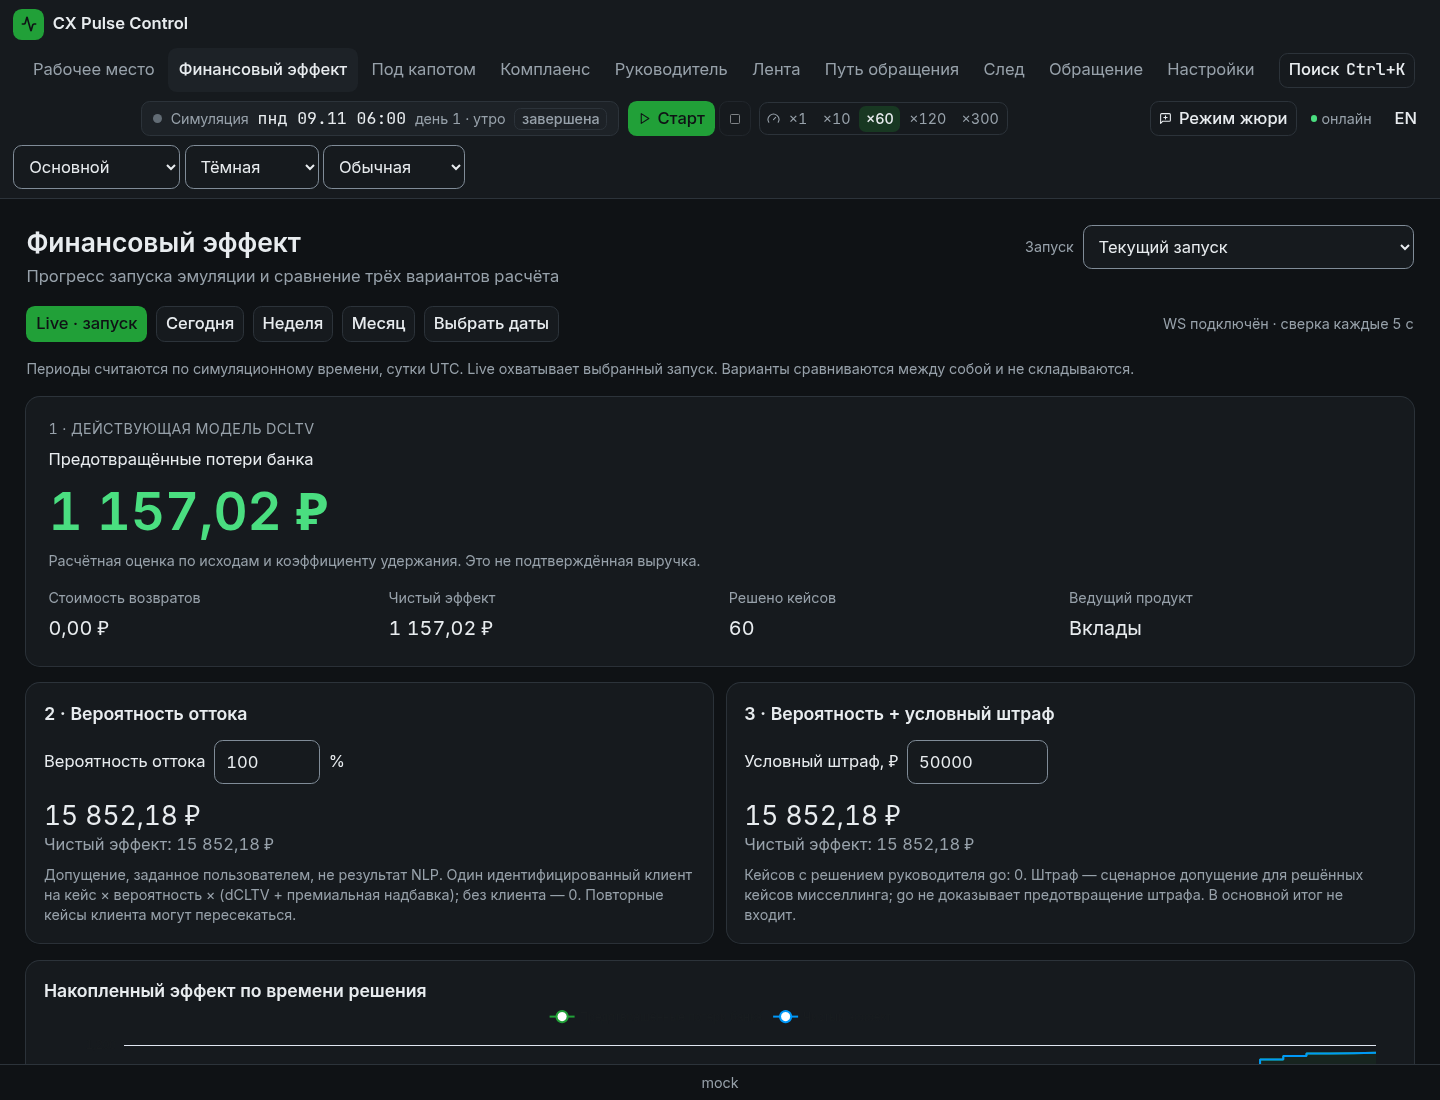
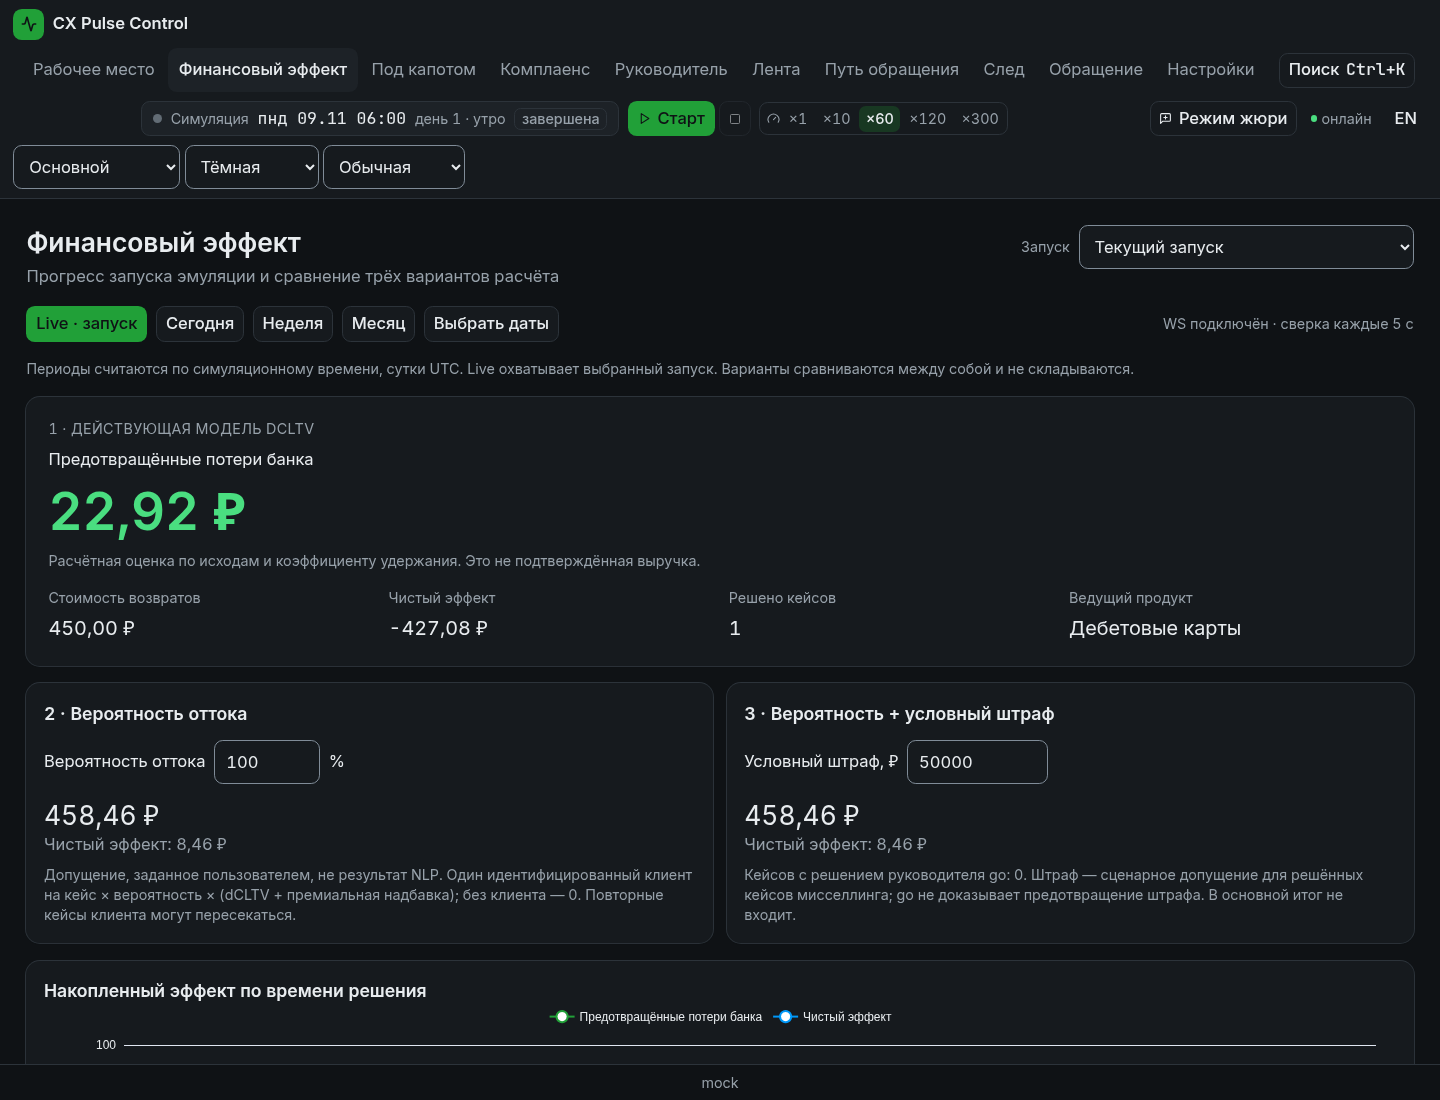
fix(finance): разрешать текущий запуск по серверному снимку

diff --git a/frontend/src/pages/finance/FinancePage.tsx b/frontend/src/pages/finance/FinancePage.tsx
@@ -85,20 +85,21 @@ export function FinancePage() {
   useEffect(() => { setOffset(0); setIncident(null) }, [selectedRun])
   const validDates = period !== 'custom' || (!!start && !!end && end > start)
   const query = useQuery({
-    queryKey: ['metrics', 'finance', selectedRun ?? null, period, start, end, probability, fine, offset],
+    queryKey: ['metrics', 'finance', run, selectedRun ?? null, period, start, end, probability, fine, offset],
     queryFn: () => api<Total>('/api/v1/finance/impact/total', { query: {
-      run_id: selectedRun ?? 'current', period, probability_percent: probability, fine_per_case_rub: fine, offset,
+      run_id: run, period, probability_percent: probability, fine_per_case_rub: fine, offset,
       ...(period === 'custom' ? { start_date: `${start}:00Z`, end_date: `${end}:00Z` } : {}),
     } }),
     enabled: validDates,
     refetchInterval: 5000,
   })
+  const d = query.data
+  useEffect(() => { setOffset(0); setIncident(null) }, [d?.run_id])
   const detail = useQuery({
-    queryKey: ['metrics', 'finance-detail', selectedRun ?? null, incident, probability, fine],
-    queryFn: () => api<Detail>(`/api/v1/finance/impact/incident/${incident}`, { query: { run_id: selectedRun ?? 'current', probability_percent: probability, fine_per_case_rub: fine } }),
+    queryKey: ['metrics', 'finance-detail', d?.run_id ?? null, incident, probability, fine],
+    queryFn: () => api<Detail>(`/api/v1/finance/impact/incident/${incident}`, { query: { run_id: d?.run_id ?? run, probability_percent: probability, fine_per_case_rub: fine } }),
     enabled: incident !== null,
   })
-  const d = query.data
   const change = () => { setOffset(0); setIncident(null) }
   return <div className="h-full overflow-auto p-4 md:p-6">
     <div className="mx-auto flex max-w-7xl flex-col gap-4">

diff --git a/docs/benchmarks/financial-impact-2026-10-29/README.md b/docs/benchmarks/financial-impact-2026-10-29/README.md
@@ -6,11 +6,11 @@
 
 `make lint && make test`: 551 unit passed / 16 skipped, 103 integration passed / 2 skipped, 22 scenarios passed / 2 skipped. Skipped — опциональные внешние/живые контуры существующего набора. Первоначальный replay-промах воспроизвёлся на исходной main; временная БД наследовала Europe/Moscow. С UTC, как в CI, replay и полный прогон прошли без правок кассет.
 
-Frontend: ESLint (0 errors; существующий warning DemoMenu), TypeScript и build успешны; Vitest 118 passed в 19 файлах. На локальном Node 26 для совместимости jsdom использован NODE_OPTIONS=--no-experimental-webstorage; CI использует Node 22. Предупреждение build о размере общего chunk не блокирует сборку. Contracts 41 schemas / 151 paths, OpenAPI drift 177/177, i18n 1306 keys, owners --allow-cross и git diff --check успешны.
+Frontend: ESLint (0 errors; существующий warning DemoMenu), TypeScript и build успешны; Vitest 119 passed в 19 файлах. На локальном Node 26 для совместимости jsdom использован NODE_OPTIONS=--no-experimental-webstorage; CI использует Node 22. Предупреждение build о размере общего chunk не блокирует сборку. Contracts 41 schemas / 151 paths, OpenAPI drift 177/177, i18n 1306 keys, owners --allow-cross и git diff --check успешны.
 
 `report.json`: Chrome headless, ru/en × light/dark × 1440×1100 и 390×844. Ошибок pageerror и горизонтального переполнения нет. Скриншоты основных состояний, модала и mobile сохранены рядом. Шапка переносит селекторы темы на узких экранах. Исторический ряд и реестр находятся в прокручиваемой области приложения.
 
-`live-smoke.json`: новый запуск 2, основной итог 0 → 22,92 ₽; один resolved/closed кейс, возврат 450 ₽, net −427,08 ₽. Сценарий с P=100 %: dCLTV 458,46 ₽, net 8,46 ₽. Получены 3 сообщения FINANCIAL_IMPACT_UPDATED (изменения исхода/множителей в одной цепочке); REST-снимок содержит один кейс, суммы не удваиваются. `live-case.png` снят после прохождения графа на MockProvider по qr_fee_public_review.
+`live-smoke.json`: новый запуск 3, основной итог 0 → 22,92 ₽; один resolved/closed кейс, возврат 450 ₽, net −427,08 ₽. Сценарий с P=100 %: dCLTV 458,46 ₽, net 8,46 ₽. Получены 3 сообщения FINANCIAL_IMPACT_UPDATED (изменения исхода/множителей в одной цепочке); REST-снимок содержит один кейс, суммы не удваиваются. `live-case.png` снят после прохождения графа на MockProvider по qr_fee_public_review. Дополнительно проверено: сумма именно в UI совпадает с серверным current-снимком и реестр содержит одну строку нового запуска даже при устаревшем sim_state. Regression test закрепляет разрешение current на сервере и детализацию по run_id снимка.
 
 ## Воспроизведение снимков
 

diff --git a/docs/tasks/T-264-ekran-finansovogo-effekta-i-sravnenie-modelej.md b/docs/tasks/T-264-ekran-finansovogo-effekta-i-sravnenie-modelej.md
@@ -47,6 +47,6 @@ pytest backend/tests/integration/test_finance.py
 ## Отчёт субагента
 Ветка `codex/financial-impact`, GitHub #88 (E24 #87). Реализованы /finance, REST total/detail (OpenAPI 1.5.2, generated TS types), read-only снимки одного запуска, периоды UTC, серверная пагинация/график и модал, три раздельных варианта, точные копейки и отдельный net, WS invalidation/reconnect/polling. Формула ADR-0007, проводки и HITL сохранены. Источник обновляет экономику при действиях агента и оператора до публикации статуса, в том числе без подарка; computed_at не старее outcome update.
 
-Проверено локально: make lint/test — 551 unit + 103 integration + 22 scenarios passed (20 skipped в опциональных контурах); frontend lint/typecheck/build и 118 Vitest passed. contracts, OpenAPI drift, i18n, owners --allow-cross и git diff --check успешны. 21 целевая backend-проверка включена в полный набор. Скриншоты ru/en × light/dark, mobile и реальный mock/WS smoke — docs/benchmarks/financial-impact-2026-10-29/README.md. CI является обязательным gate PR перед merge.
+Проверено локально: make lint/test — 551 unit + 103 integration + 22 scenarios passed (20 skipped в опциональных контурах); frontend lint/typecheck/build и 119 Vitest passed. contracts, OpenAPI drift, i18n, owners --allow-cross и git diff --check успешны. 21 целевая backend-проверка включена в полный набор. Скриншоты ru/en × light/dark, mobile и реальный mock/WS smoke — docs/benchmarks/financial-impact-2026-10-29/README.md. CI является обязательным gate PR перед merge.
 
-Отклонение от общего DoD: живой GigaChat не вызывался, LLM-логика не менялась; проверен offline lite. Не измерялась demo-нагрузка/p95. P и штраф остаются допущениями по решению заказчика; калибровка и доказательства вынесены в T-265/#89. Старые карточки T-093/T-131/T-132/T-202 не закрывались автоматически. Миграций и новых зависимостей нет. Откат — revert PR.
+Отклонение от общего DoD: живой GigaChat не вызывался, LLM-логика не менялась; проверен offline lite. Не измерялась demo-нагрузка/p95. P и штраф остаются допущениями по решению заказчика; калибровка и доказательства вынесены в T-265/#89. Старые карточки T-093/T-131/T-132/T-202 не закрывались автоматически. Тест с устаревшим sim_state проверяет, что current разрешается сервером, а детализация использует run_id финансового снимка; повторный browser smoke подтвердил совпадение суммы UI со снимком и одну строку нового запуска. Миграций и новых зависимостей нет. Откат — revert PR.

diff --git a/docs/adr/ADR-0013-financial-impact.md b/docs/adr/ADR-0013-financial-impact.md
@@ -17,7 +17,7 @@ GET /api/v1/finance/impact/total возвращает суммы, накопле
 
 Один инцидент — одна строка; EXISTS по алертам исключает умножение. Сценарий округляется до копеек на кейс до суммирования. Временной ряд — реконструкция по текущим сохранённым расчётам и времени решения, а не неизменяемый журнал признания дохода; после калибровки/переоткрытия он может изменяться. Неполные/устаревшие расчёты отмечаются счётчиками, итоги предварительные; GET не маскирует проблему пересчётом или нулями без предупреждения.
 
-Источник compute_incident публикует metrics/FINANCIAL_IMPACT_UPDATED только при изменении breakdown. Оболочка WS остаётся topic/type/ts/data/run_id, вместо второго протокола из документа. Клиент перечитывает REST-снимок, не прибавляет дельту: повтор события не удваивает деньги; переподключение и polling 5 с восстанавливают пропуски. Смена текущего запуска меняет ключ запроса; анимация не переносит сумму старого запуска. При prefers-reduced-motion анимация отключена.
+Источник compute_incident публикует metrics/FINANCIAL_IMPACT_UPDATED только при изменении breakdown. Оболочка WS остаётся topic/type/ts/data/run_id, вместо второго протокола из документа. Клиент перечитывает REST-снимок, не прибавляет дельту: повтор события не удваивает деньги; переподключение и polling 5 с восстанавливают пропуски. Для current фронт отправляет именно current; кеш sim_state служит только поводом обновить запрос и не определяет его область. Детализация закреплена за run_id полученного финансового снимка. Смена текущего запуска меняет ключ запроса; анимация не переносит сумму старого запуска. При prefers-reduced-motion анимация отключена.
 
 ## Ограничения и откат
 

diff --git a/docs/FINANCIAL-IMPACT-ANALYSIS.md b/docs/FINANCIAL-IMPACT-ANALYSIS.md
@@ -20,7 +20,7 @@ T-131 и backend/app/economics/dcltv.py реализуют выбор ставо
 
 ## Найденный дефект реализации
 
-update_incident мог завершать кейс без пересчёта экономики, если автоматический подарок не выдавался. Теперь источник вычисляет dCLTV до события статуса. Обновление outcome_class перенесено перед записью экономики, чтобы computed_at не оказывался старее только что изменённого инцидента. Событие изменения экономических множителей доставляется отдельно, в том числе после выдачи подарка. Основные формулы и ставки не меняются.
+update_incident мог завершать кейс без пересчёта экономики, если автоматический подарок не выдавался. Теперь источник вычисляет dCLTV до события статуса. Обновление outcome_class перенесено перед записью экономики, чтобы computed_at не оказывался старее только что изменённого инцидента. Событие изменения экономических множителей доставляется отдельно, в том числе после выдачи подарка. Основные формулы и ставки не меняются. Для режима current источником запуска является серверный финансовый срез, а не кеш sim_state; модал закреплён за run_id этого среза. Устаревшие часы не могут переключить финансовую страницу на предыдущий запуск.
 
 ## Приёмка
 
